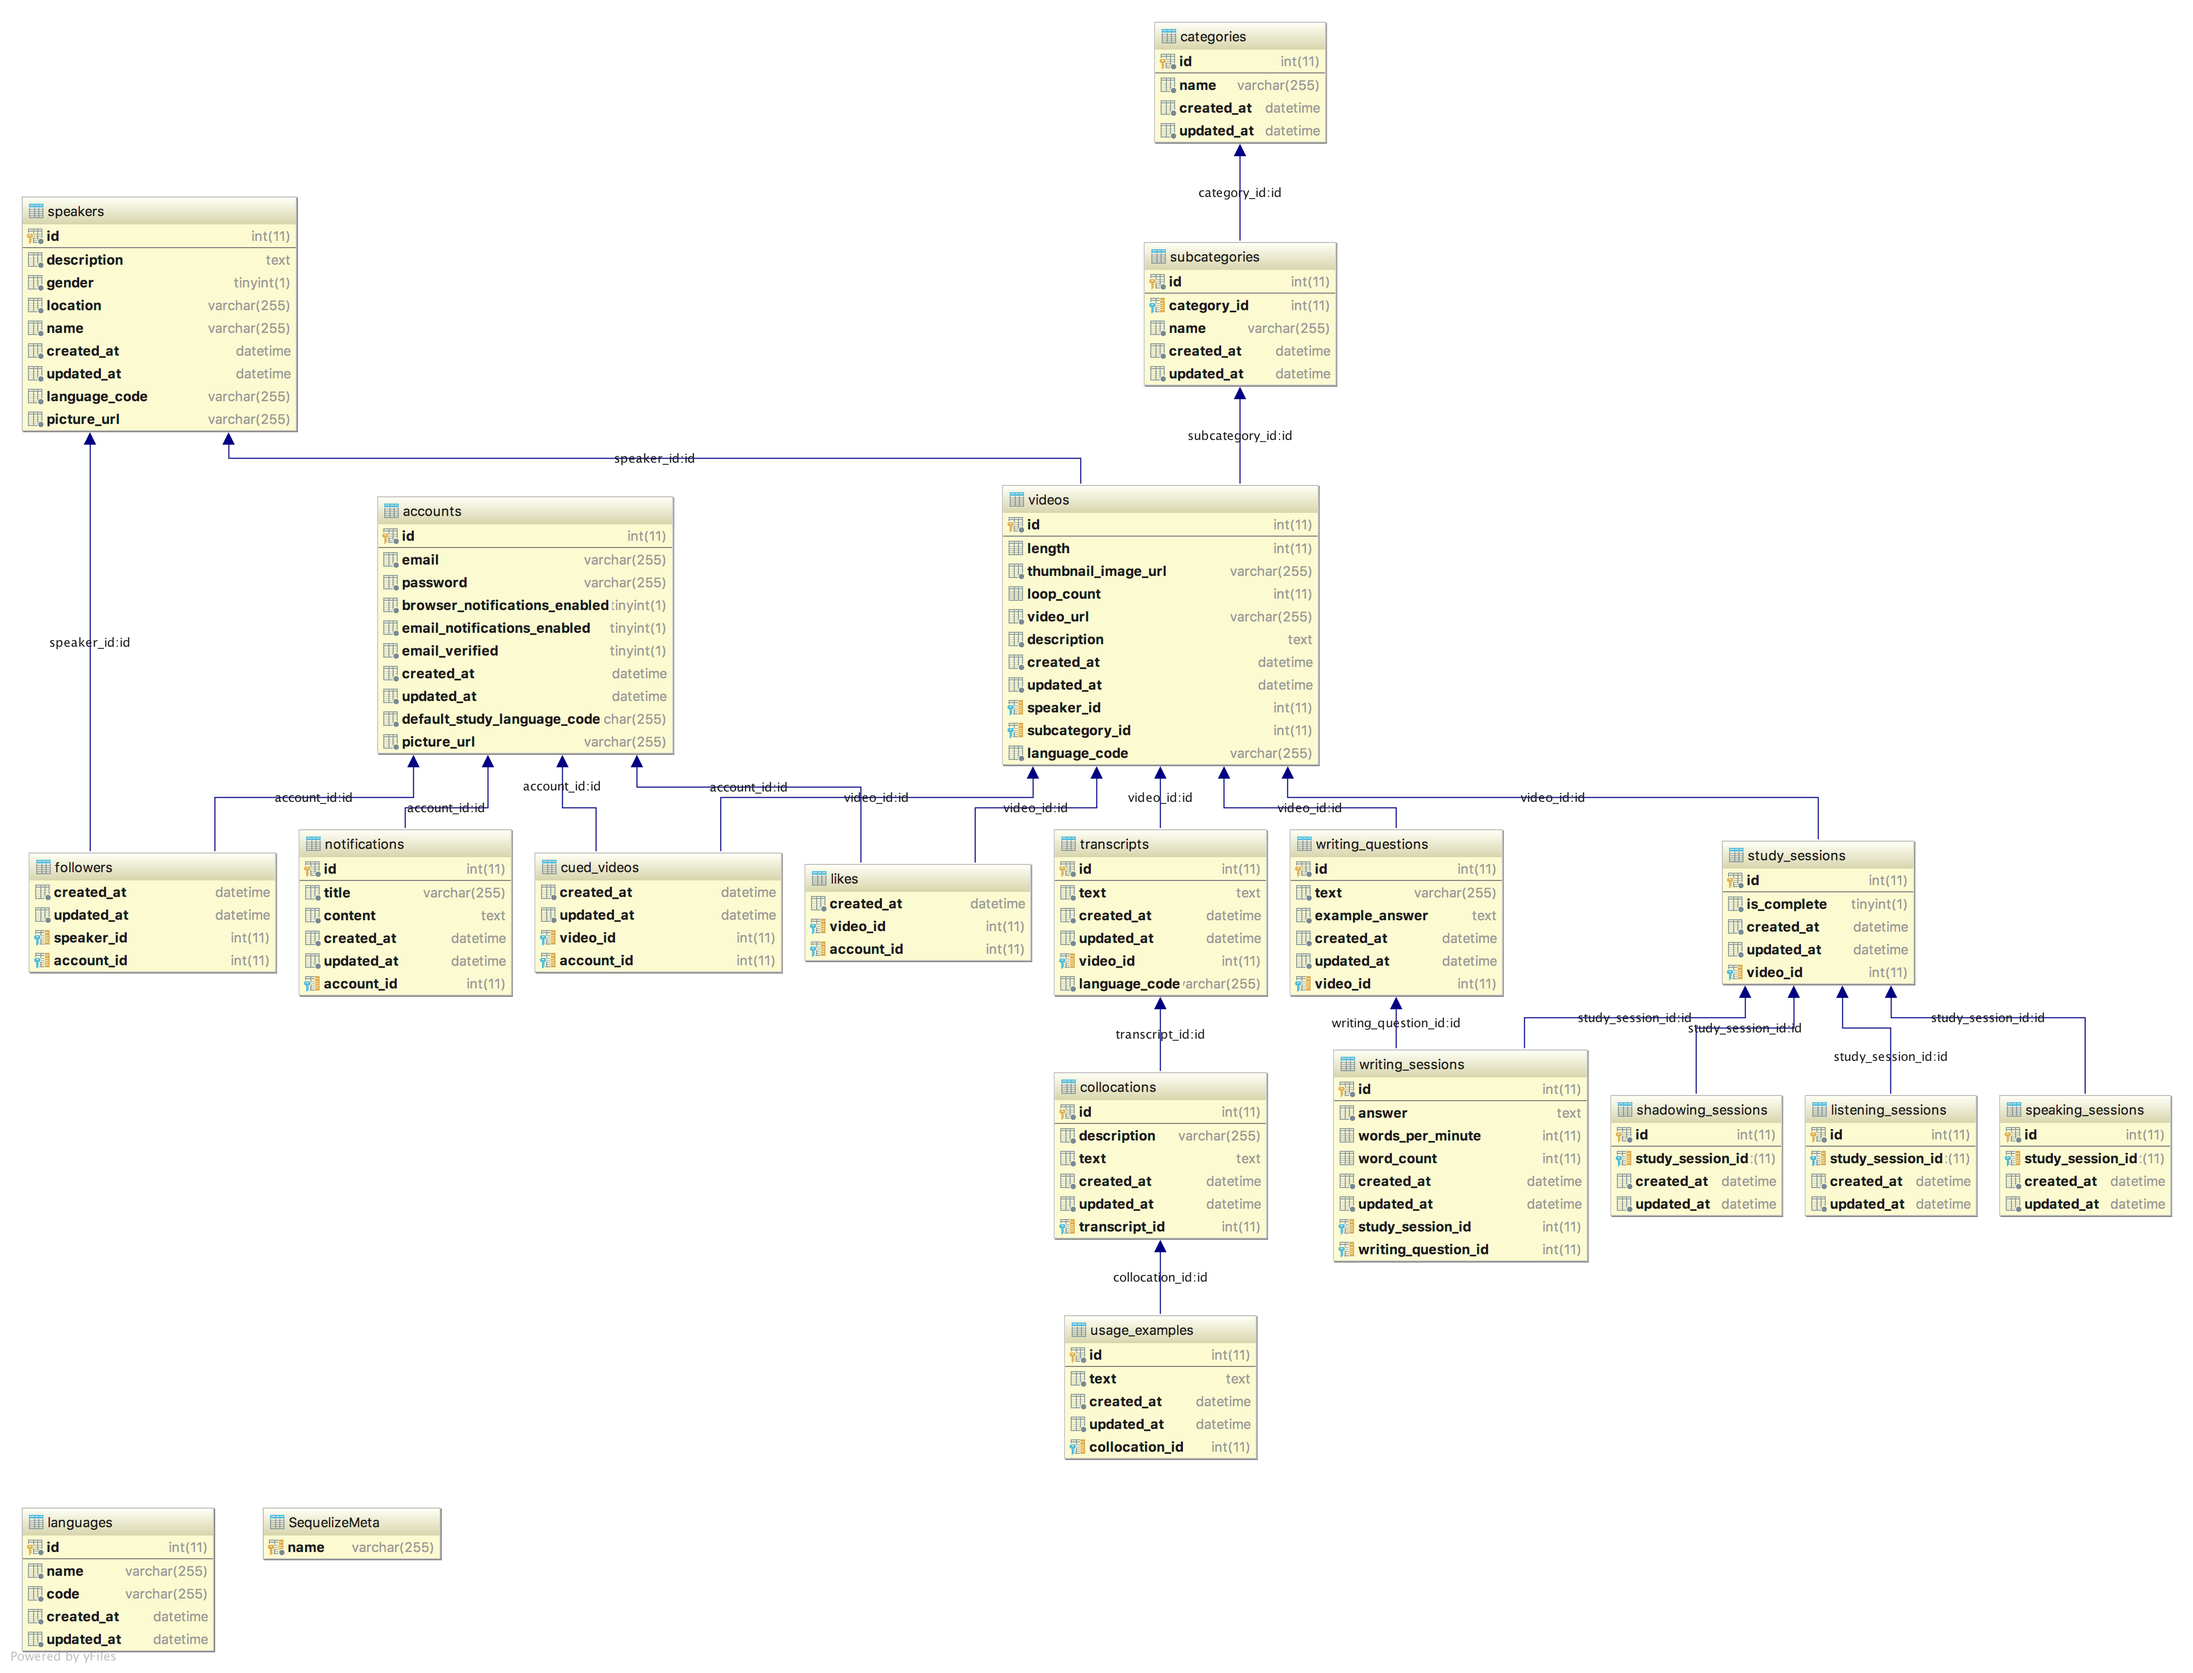
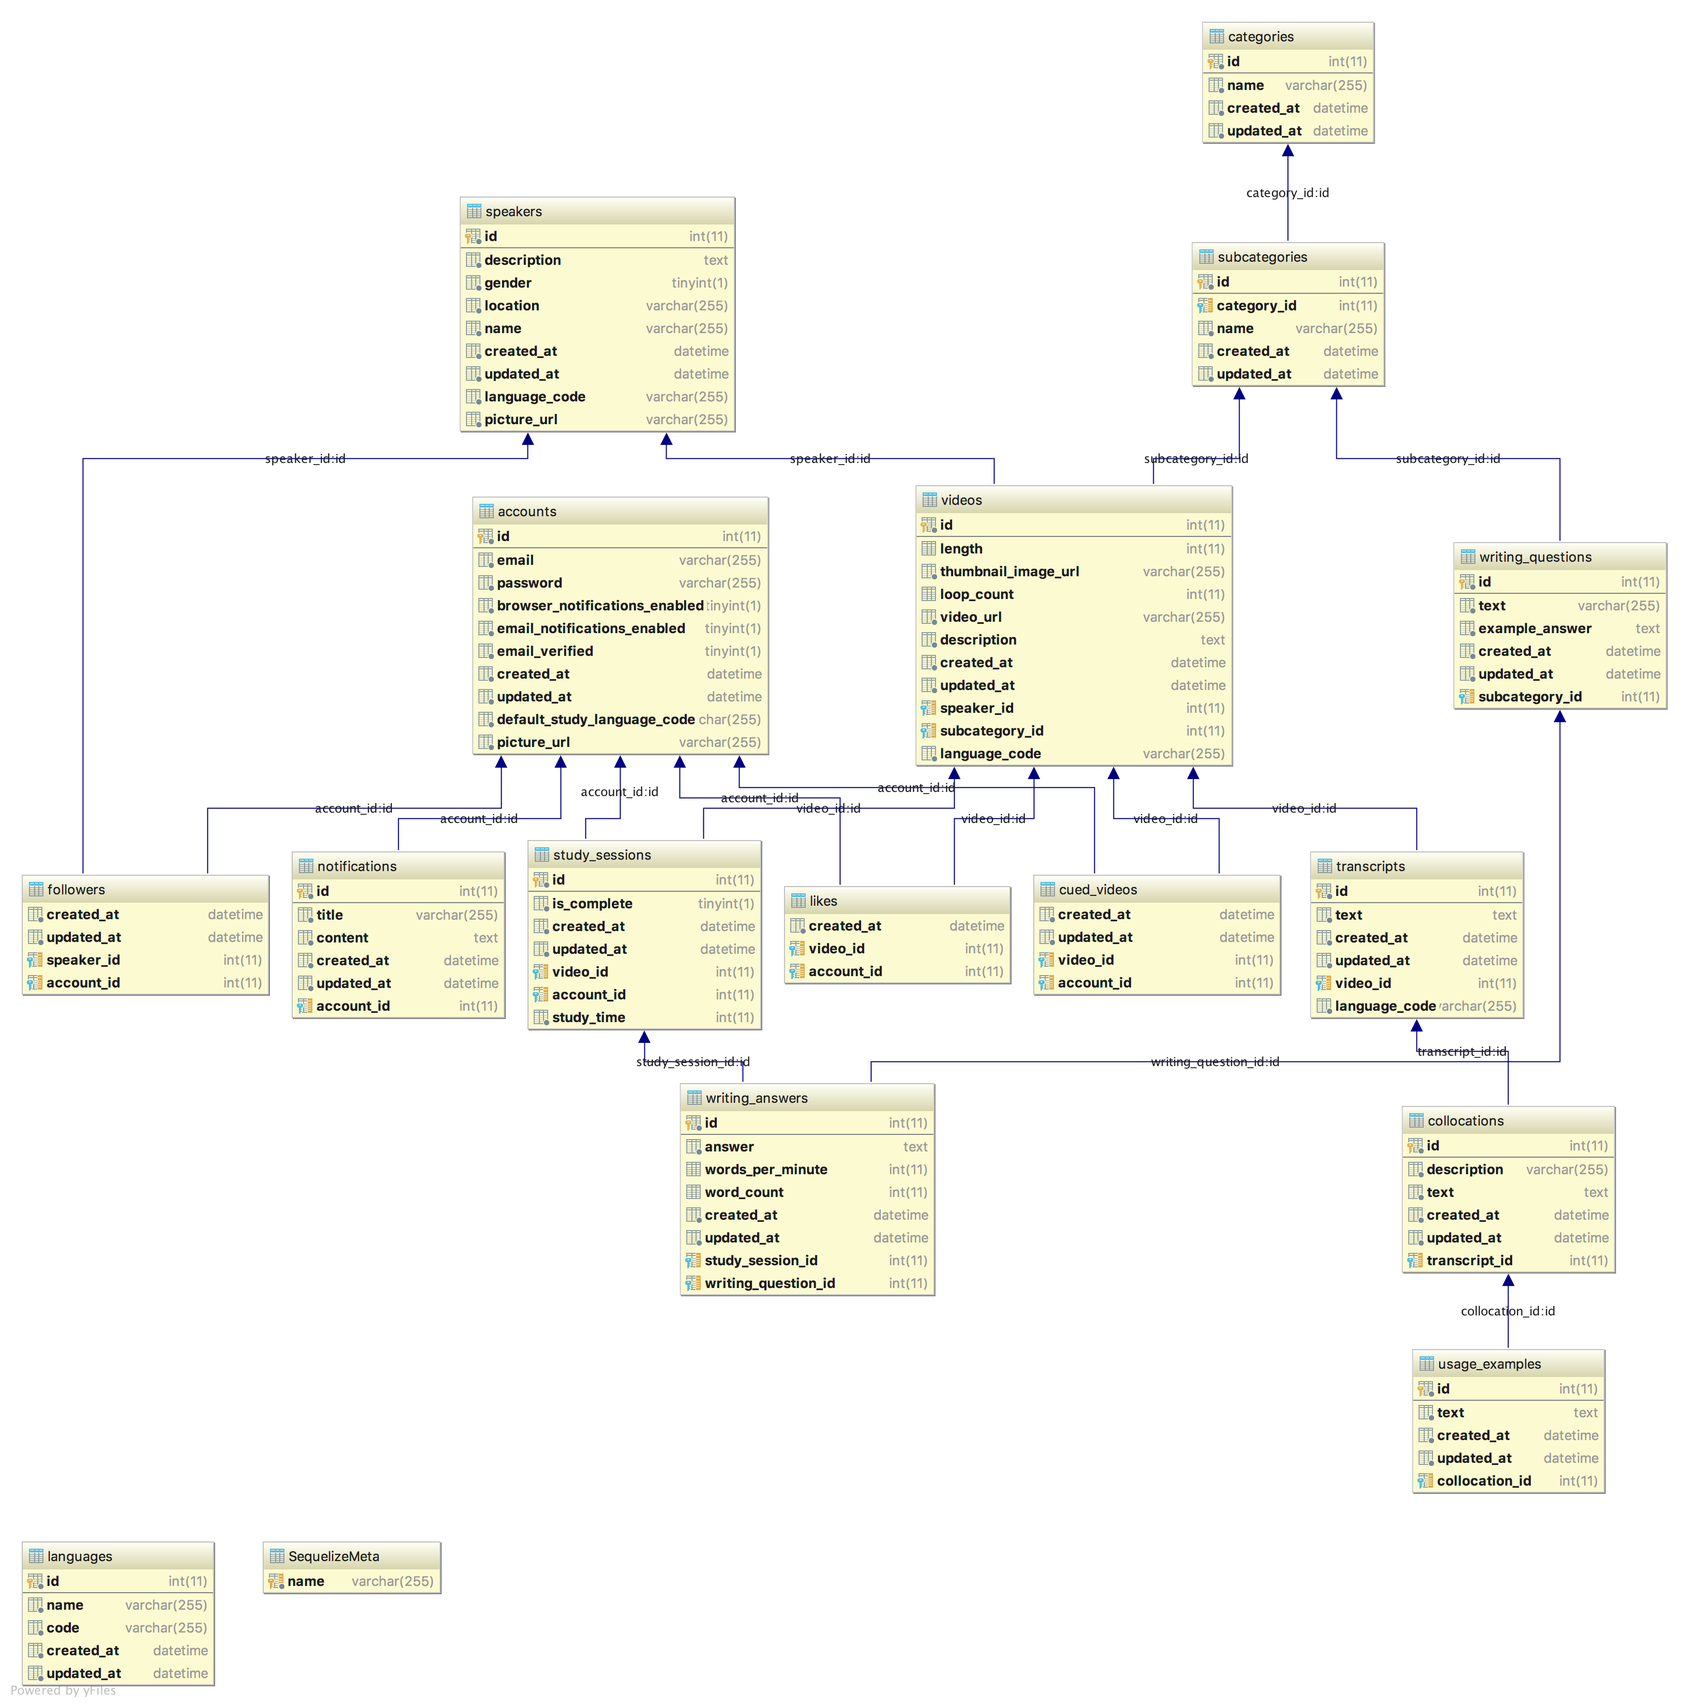
Update schema.png

diff --git a/src/server/db/migrations/20170226005558-add-writing-question-id-to-writing-answers.js b/src/server/db/migrations/20170226005558-add-writing-question-id-to-writing-answers.js
@@ -7,7 +7,7 @@
 
 module.exports = {
     up: function(queryInterface, Sequelize) {
-        return queryInterface.addColumn('writing_sessions', 'writing_question_id', {
+        return queryInterface.addColumn('writing_answers', 'writing_question_id', {
             type: Sequelize.INTEGER,
             references: {
                 model: 'writing_questions',
@@ -19,6 +19,6 @@ module.exports = {
     },
 
     down: function(queryInterface, Sequelize) {
-        return queryInterface.removeColumn('writing_sessions', 'writing_question_id');
+        return queryInterface.removeColumn('writing_answers', 'writing_question_id');
     }
 };
